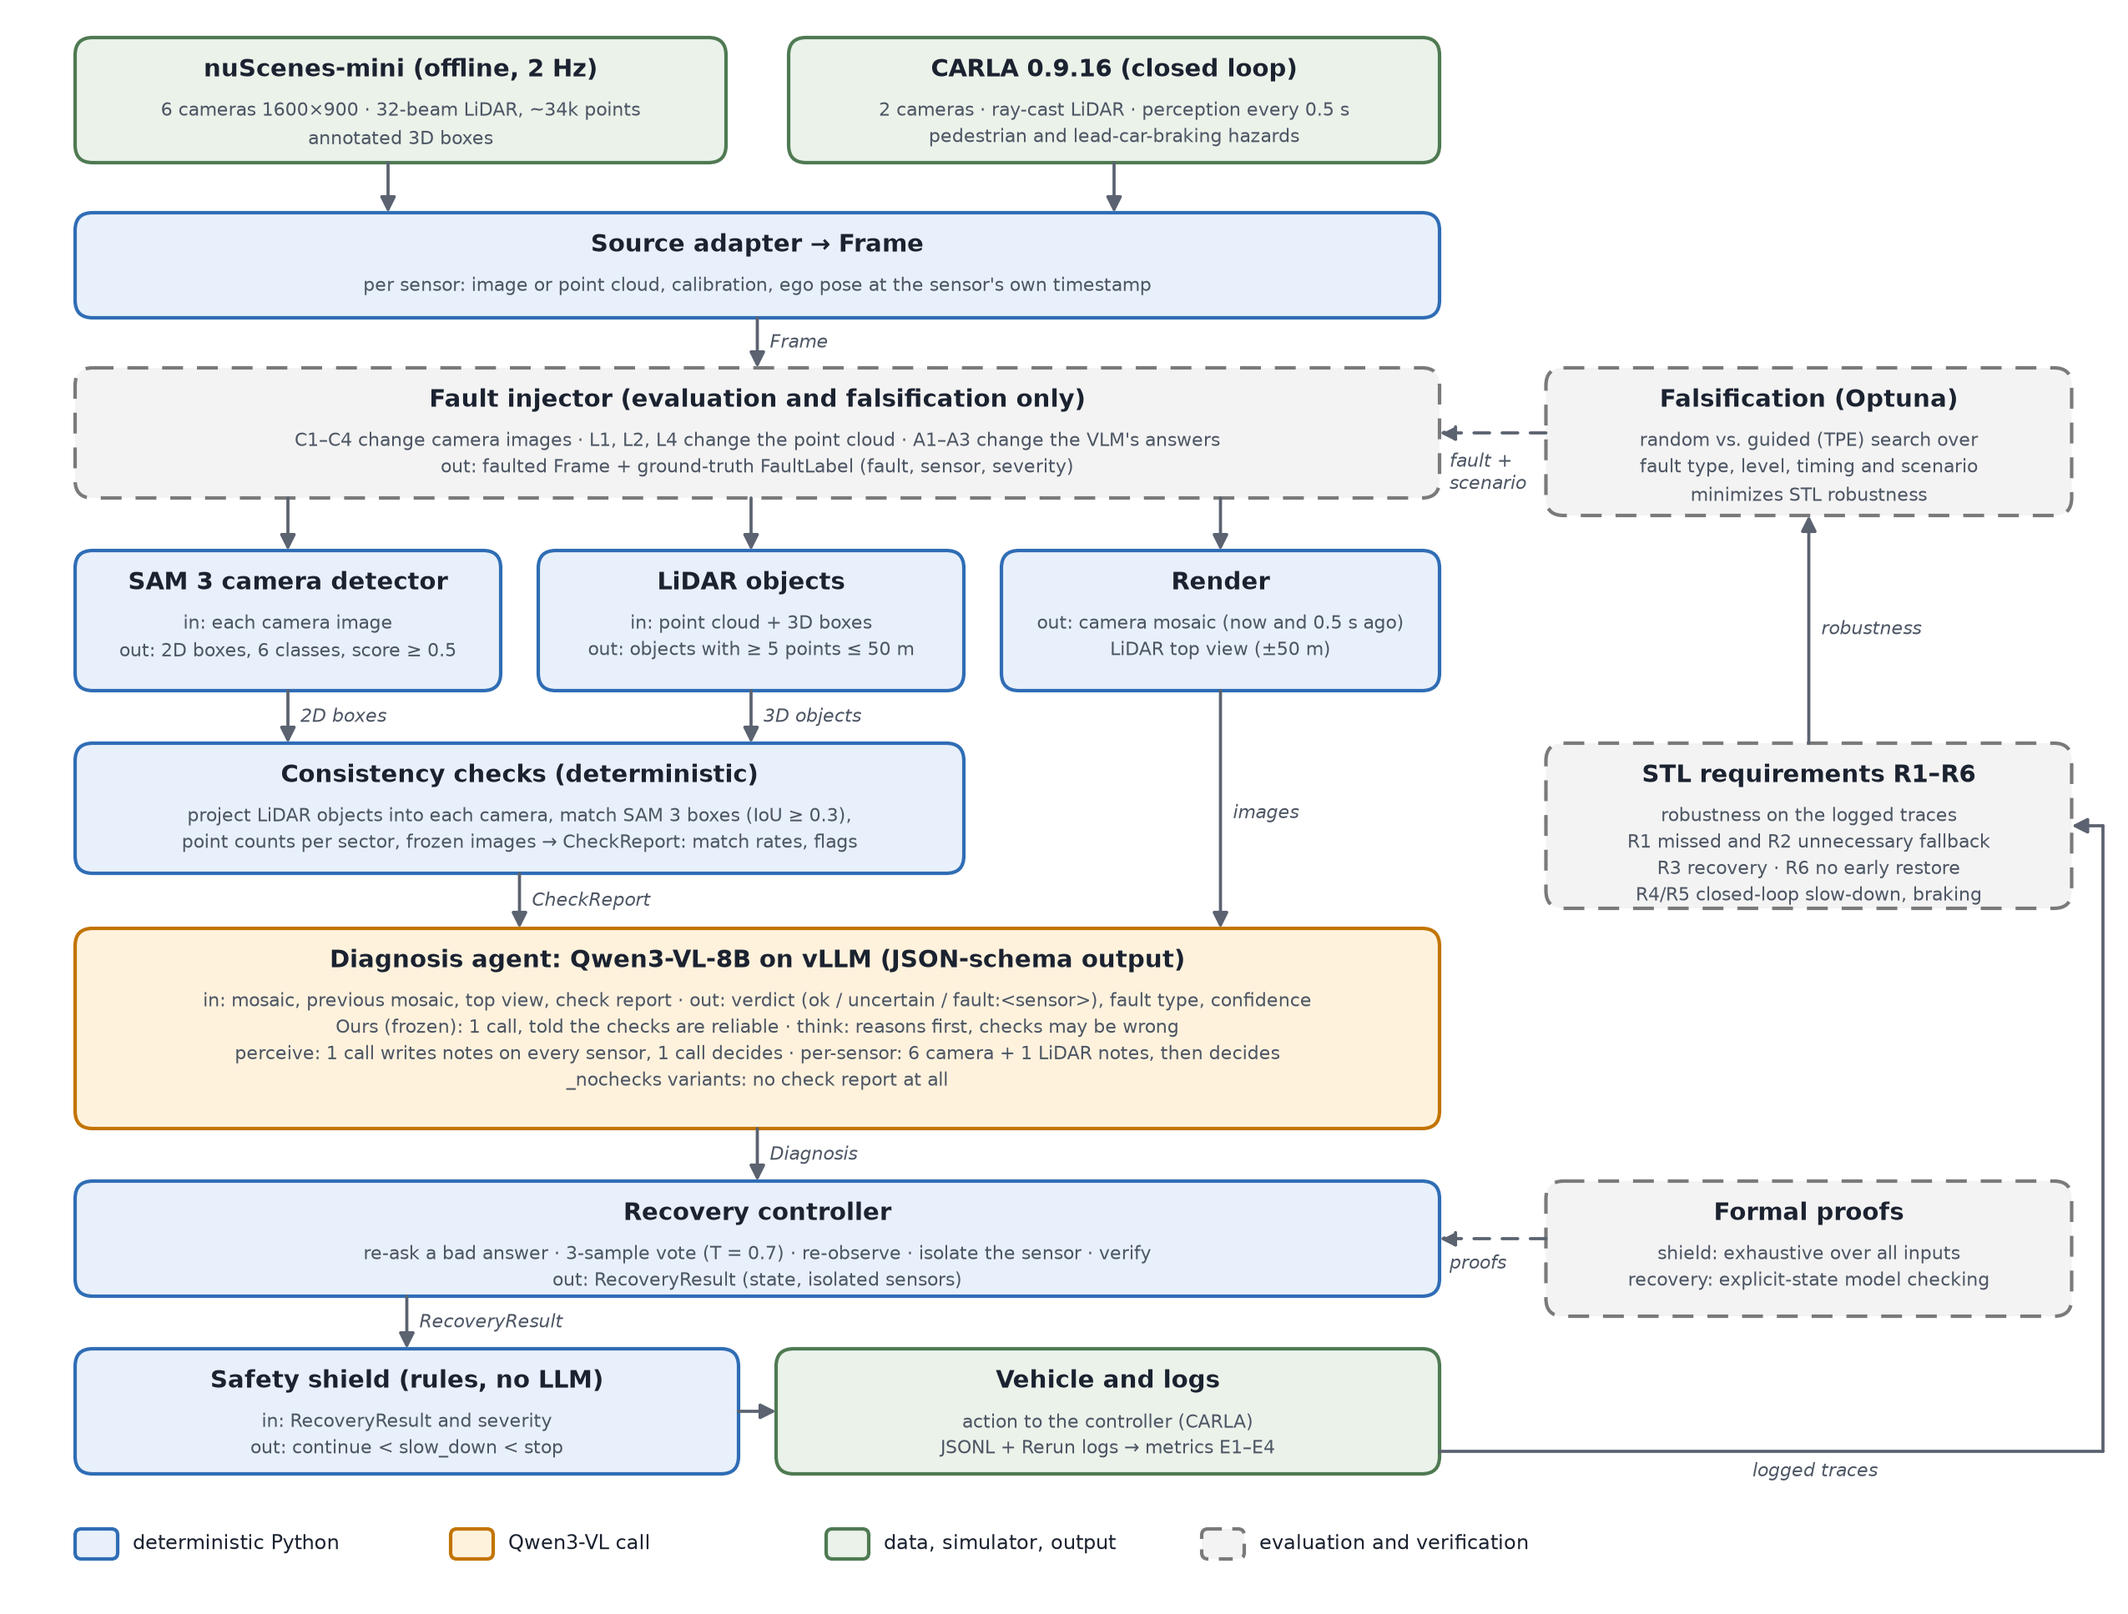
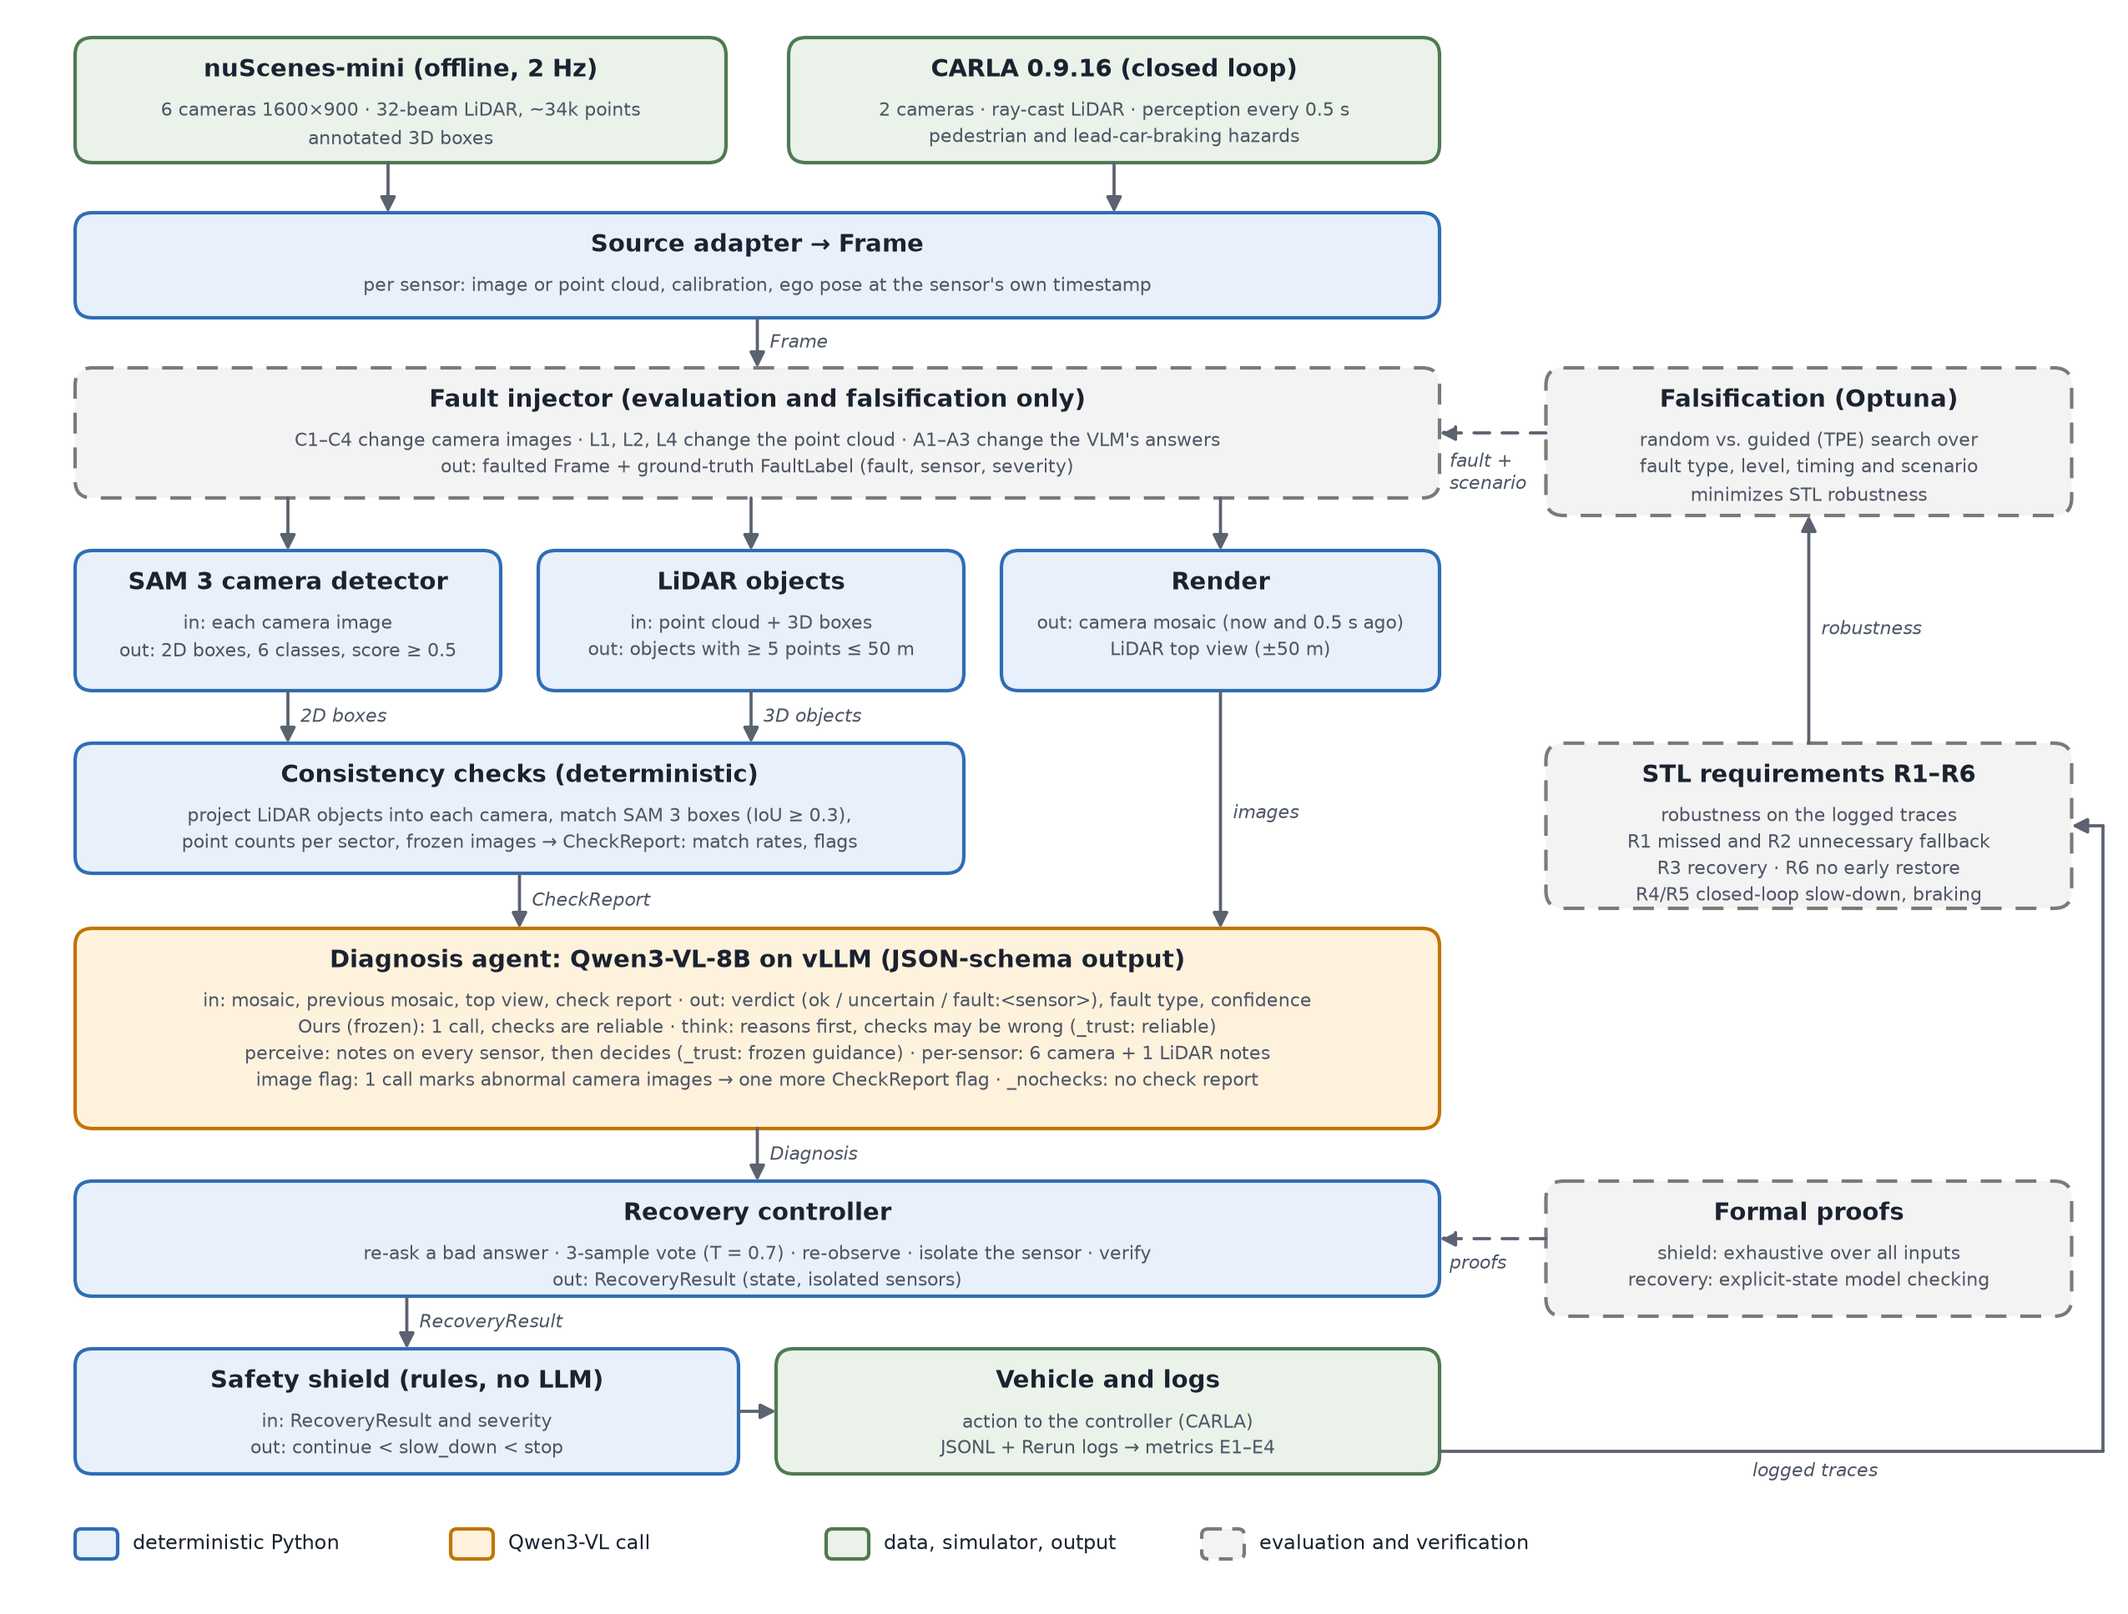
checkpoint(finish-vlm): T12 seeds 1-2 and the final round-2 figures
Three seeds confirm the screen: the variants that keep the frozen call match Ours-full in F1 and trade false alarms
for missed fallbacks. Figures in docs/media regenerated (variants, per-fault, seeds, cost, data flow).

Claude-Session: https://claude.ai/code/session_019UfXnDKkSotNQkE5UxziuS

Changed region(s): [[0.1239, 0.6202, 0.5886, 0.6822]]

diff --git a/scripts/make_dataflow_figure.py b/scripts/make_dataflow_figure.py
@@ -78,9 +78,9 @@ def draw(out: Path) -> None:
     box(ax, L, 742, R - L, 160, "vlm", "Diagnosis agent: Qwen3-VL-8B on vLLM (JSON-schema output)",
         "in: mosaic, previous mosaic, top view, check report · out: verdict (ok / uncertain / fault:<sensor>), "
         "fault type, confidence\n"
-        "Ours (frozen): 1 call, told the checks are reliable · think: reasons first, checks may be wrong\n"
-        "perceive: 1 call writes notes on every sensor, 1 call decides · per-sensor: 6 camera + 1 LiDAR notes, "
-        "then decides\n_nochecks variants: no check report at all")
+        "Ours (frozen): 1 call, checks are reliable · think: reasons first, checks may be wrong (_trust: reliable)\n"
+        "perceive: notes on every sensor, then decides (_trust: frozen guidance) · per-sensor: 6 camera + 1 LiDAR notes\n"
+        "image flag: 1 call marks abnormal camera images → one more CheckReport flag · _nochecks: no check report")
     box(ax, L, 944, R - L, 92, "code", "Recovery controller",
         "re-ask a bad answer · 3-sample vote (T = 0.7) · re-observe · isolate the sensor · verify\n"
         "out: RecoveryResult (state, isolated sensors)")

diff --git a/docs/superpowers/runs/2026-11-21-finish-and-vlm-variants.md b/docs/superpowers/runs/2026-11-21-finish-and-vlm-variants.md
@@ -7,7 +7,8 @@
 - Continues `docs/superpowers/runs/2026-11-20-course-requirements.md` (Phase B tasks B3–B7).
 
 ## Status
-Current: round 2. T10 done; T13 done (agent faults). T11, T14 done. Running: T12 seeds 1–2 (`vlm_trust_s12`, `vlm_imgflag_s12`). Next: T15.
+Current: round 2. T10–T14 done; vLLM stopped (GPUs 3, 4, 7 at 2 MiB). Next: T15 (figures pushed, report Doc,
+provenance Doc, Drive, merge and push).
 
 Phase B state found at the start (outputs in `/data/maxshen/recoverdrive/outputs/falsify/`):
 - B3 done: `nuscenes_gpu_v1`, C2/C3 × R1/R2/R3/R6 × random/TPE, 960 trials (checks_only).
@@ -22,13 +23,29 @@ Phase B state found at the start (outputs in `/data/maxshen/recoverdrive/outputs
 |---|---|---|---|
 | T0 | 77bfb9f | 170 passed, ruff clean | plan, run log, CARLA `--resume` / `--confirm` |
 | T3 | dfd2846 | 175 passed, ruff clean; replay check 4830/4830 on `test_final` | `VLMVariant` (5 variants), prompts in `vlm.py`, `tests/test_variants.py`; resume keeps unreached rows |
-| T2a | (this commit) | triage of `gpu_v1`: 209 violating trials, 0 bug candidates; confirmations 145/147 and 67/67 still violated with Ours-full | falsification log, Phase B sections |
-| T1a | (this commit) | 4 CARLA campaigns complete: 160 runs (summary.md 40 each), all exit 0 | resumed with `--resume`; confirmation running |
-| T2b | (this commit) | CARLA triage: 29 R4 + 1 R5 violation (1 collision), all undetected C2 rotations; 0 bug candidates | falsification log, CARLA section |
-| T1 | (this commit) | CARLA confirmation: 10 replays with Ours-full, exit 0; the collision scenario also collides with Ours-full | B5 complete |
-| T13 | (this commit) | `vlm_agent_s0`: 729 frames, 0 errors; 181 passed, ruff clean | recovery 0.661 Ours-full, 0.622 `think_trust`, 0.661 `imgflag`; unnecessary fallback 0.056 / 0.089 / 0.154 |
-| T11 | (this commit) | `vlm_screen_s0_round2`: 42 runs, 1,701 frames, 0 errors; bootstrap vs Ours-full | `perceive_trust` F1 0.617 (gap +0.109 [+0.070, +0.149]); `imgflag` 0.726 (−0.001 [−0.028, +0.025]) with false alarm 0.246 vs 0.089; `imgflag_checks` 0.723 at 1 call/frame |
-| T14 | (this commit) | `carla_v2_imgflag_{r4,r4_ped,r5}`: 12 replays, all finished (the cut-off duplicate of the main R4 process is kept as `pedestrian_confirm.partial-20261121T0805`) | front camera isolated 0/153 fault steps; rear camera isolated on 65/308 clean steps ("frozen"); R4 3/10 coincidental fixes, 1 new violation; collision unchanged |
+| T2a | 2fd9cfe | triage of `gpu_v1`: 209 violating trials, 0 bug candidates; confirmations 145/147 and 67/67 still violated with Ours-full | falsification log, Phase B sections |
+| T6a | c8361ce | tests and ruff at commit time | figure, diagram and video scripts; experiment table |
+| T6b | 741de3a | tests and ruff at commit time | assurance figure reads all falsification outputs |
+| T5a | d3095f1 | tests and ruff at commit time | `think_trust` ablation variant (D7) |
+| T1a/T2b | 2b4a032 | tests and ruff at commit time | CARLA campaigns complete and triaged |
+| T6c | ad13504 | tests and ruff at commit time | results figures merge extra tags; bootstrap intervals |
+| T1 | d507ced | CARLA confirmation: 10 replays with Ours-full, exit 0; the collision scenario also collides with Ours-full | B5 complete |
+| B7 | 339f4ce | tests and ruff at commit time | Phase B numbers in the verification text |
+| T8a | a512894 | tests and ruff at commit time | demo video on Drive |
+| T6d | cceadb6 | tests and ruff at commit time | final falsification figure and assurance case |
+| T8a | 77242e2 | tests and ruff at commit time | report Doc phase 1 |
+| T6e | df05870 | tests and ruff at commit time | results figures union several tags for the seed table |
+| T6f | 648712a | tests and ruff at commit time | variant figures (comparison and per-fault F1) |
+| T4-T7 | 899e1d8 | tests and ruff at commit time | variant results, replays, figures and docs |
+| T8 | f567c6f | tests and ruff at commit time | report Doc, provenance Doc and Drive uploads |
+| T9 | 0ce577c | `main` fast-forwarded to the branch (the repo's linear-history convention); in the main checkout `uv sync` builds torch 2.14.1+cu126 (CUDA available), 176 passed, ruff clean; replay check 4830/4830; pushed over HTTPS: origin/main eb34fe3..f567c6f | the worktree is kept (it holds `outputs/e3/regress_gvl2`) |
+| T10 | 9a55dcb | 180 passed, ruff clean; replay check 4830/4830 | `perceive_trust` (the 3-step flow with the frozen guidance), `imgflag` (VLM image-quality flag + frozen Ours), `imgflag_checks` (VLM flag + rules only); new flag name `vlm_image` |
+| T14a | bd13b34 | tests and ruff at commit time | CARLA replays can rank scenarios by R4 (`--by`) |
+| round-2 | 47b6f2b | tests and ruff at commit time | round-2 plan (T10–T15) after the stop-hook review |
+| T13 | e315700 | `vlm_agent_s0`: 729 frames, 0 errors; 181 passed, ruff clean | recovery 0.661 Ours-full, 0.622 `think_trust`, 0.661 `imgflag`; unnecessary fallback 0.056 / 0.089 / 0.154 |
+| T11 | 67f9493 | `vlm_screen_s0_round2`: 42 runs, 1,701 frames, 0 errors; bootstrap vs Ours-full | `perceive_trust` F1 0.617 (gap +0.109 [+0.070, +0.149]); `imgflag` 0.726 (−0.001 [−0.028, +0.025]) with false alarm 0.246 vs 0.089; `imgflag_checks` 0.723 at 1 call/frame |
+| T14 | e0a5990 | `carla_v2_imgflag_{r4,r4_ped,r5}`: 12 replays, all finished (the cut-off duplicate of the main R4 process is kept as `pedestrian_confirm.partial-20261121T0805`) | front camera isolated 0/153 fault steps; rear camera isolated on 65/308 clean steps ("frozen"); R4 3/10 coincidental fixes, 1 new violation; collision unchanged |
+| T12 | (this commit) | `vlm_trust_s12`, `vlm_imgflag_s12`: 84 runs and 3,402 frames each, 0 frame errors; figures regenerated | 3 seeds: F1 0.729 ± 0.003 Ours-full, 0.726 ± 0.005 `think_trust`, 0.727 ± 0.002 `imgflag`, 0.726 ± 0.003 `imgflag_checks`; dataflow diagram lists the round-2 variants |
 
 ## Drive
 - Report Doc `1TejQjwoDeW_gQMlVCWMl-G1R87ICXqNJk1hCnP4fHA8`, updated in place (title unchanged).
@@ -37,22 +54,20 @@ Phase B state found at the start (outputs in `/data/maxshen/recoverdrive/outputs
   (`16TnNjXg6KOq0jPG1VVI-2WtfMhUDf2w7`, 7,020,097 bytes) and 7 figures.
 - `experiment_result/recoverdrive_results_2026-11-21_{summaries,screen_frames_part1,screen_frames_part2,trust_frames}.zip`
   (split because the connector refuses requests over 10 MB).
-| T9 | f567c6f (merge), this commit | `main` fast-forwarded to the branch (the repo's linear-history convention); in the main checkout `uv sync` builds torch 2.14.1+cu126 (CUDA available), 176 passed, ruff clean; replay check 4830/4830; pushed over HTTPS: origin/main eb34fe3..f567c6f | the worktree is kept (it holds `outputs/e3/regress_gvl2`) |
-| T10 | (this commit) | 180 passed, ruff clean; replay check 4830/4830 | `perceive_trust` (the user's 3-step flow with the frozen guidance), `imgflag` (VLM image-quality flag + frozen Ours), `imgflag_checks` (VLM flag + rules only); new flag name `vlm_image` |
 
 ## Deferred questions
 - D3 (T3): variant prompts are written once, not tuned (one smoke check for format errors only).
 - D4 (T5): the 2 variants with the best pooled `_full` F1 on dev seed 0 (fallback errors within 0.02 of Ours-full)
   get seeds 1–2.
 - D6 (T4): the screening covers the 7 sensor faults only (one vLLM server; no second GPU was free at 03:30). The
-  agent faults A1–A3 test the re-ask and vote, which all variants share with Ours-full; they run for the top
-  variants in T5. If you prefer otherwise: add A1–A3 to the screen (about +40% VLM time).
+  agent faults A1–A3 test the re-ask and vote, which all variants share with Ours-full. Closed in round 2: A1–A3 ran
+  for Ours-full, `think_trust` and `imgflag` (`vlm_agent_s0`); see D10 for `imgflag_checks`.
 - D7 (T5): plan change. The partial screen showed every variant below Ours-full in recall. `think` changes two
-  things at once (reasoning first, and "the checks can be wrong"), so T5 adds the clean ablation `think_trust`
-  (frozen prompt + reasoning field) on the same frames, and replays the falsification counterexamples with the
-  most promising variant. Seeds 1–2 run only if a variant beats Ours-full on seed 0; otherwise block-bootstrap
-  intervals over fault episodes on seed 0 measure the gap. If you prefer otherwise: 3 seeds for the best 2
-  variants anyway (about 4–5 h of VLM time on one shared GPU).
+  things at once (reasoning first, and "the checks can be wrong"), so T5 added the clean ablation `think_trust`
+  (frozen prompt + reasoning field) on the same frames, and replayed the falsification counterexamples with the
+  most promising variants; block-bootstrap intervals over fault episodes measured the gaps. Closed in round 2: seeds
+  1–2 ran for the references, `think_trust` and both image-flag variants (5,103 frames per method); the seed-0
+  conclusions hold (same F1 within ±0.02, the variants trade false alarms for missed fallbacks).
 - D8 (T8): Doc images come from raw.githubusercontent.com at the pushed commit, because the Docs API inserts images
   only from a public URL and the server has no Drive client for large files. The new figures are therefore in
   `docs/media/` of the public repo (data figures were local-only before). If you prefer them private: remove them

diff --git a/docs/vlm-variants.md b/docs/vlm-variants.md
@@ -149,7 +149,35 @@ of a false flag with a fault elsewhere (for example 14 alarms on L2 frames, a Li
   frames abnormal. Pooled F1 stays at 0.726: the C2/C3/L2 gains are paid for by false alarms everywhere else. The
   deciding VLM call adds nothing over the rules here (image flag → checks-only: F1 0.723 with one call per frame).
 - **More calls are not better.** The per-sensor variant uses 9.3 calls per frame (4.5 times Ours-full) and has the
-  second-lowest F1 (0.508; 0.07 on C1).
+  second-lowest F1 (0.508; 0.07 on C1) (`docs/media/vlm_cost.png`).
+- **The results hold over 3 seeds and under agent faults, but not in closed loop.** Over seeds 0–2 the variants that
+  keep the frozen call have the F1 of Ours-full within ±0.02 (below), and they keep its re-ask recovery under A1–A3. In
+  CARLA, the image flag never caught the rotated front camera that caused the falsification's violations, and it
+  raised "frozen" false alarms on the rear camera (last section).
+
+Not done: the test split. A new variant on the test split needs the user's approval (spec §5.4; deferred question D5).
+No variant beat Ours-full on the dev split, so no test run is planned unless it is asked for.
+
+### Seeds 0–2 (round 2)
+
+The references, `think_trust` and the two image-flag variants on seeds 1–2 as well (`outputs/eval/vlm_trust_s12`,
+`vlm_imgflag_s12`: 84 runs each, 3,402 frames each, 0 frame errors), pooled with seed 0: 5,103 frames per method, mean ±
+standard deviation over the 3 seeds (`docs/media/vlm_variants_seeds.png`).
+
+| Method | F1 | Right sensor | False alarm | Unnecessary fallback | Missed fallback | VLM calls per frame |
+|---|---|---|---|---|---|---|
+| Checks-only (no VLM) | 0.730 ± 0.003 | 0.946 ± 0.008 | 0.087 ± 0.005 | 0.044 ± 0.003 | 0.079 ± 0.004 | 0 |
+| Ours-full (frozen) | 0.729 ± 0.003 | 0.947 ± 0.010 | 0.089 ± 0.006 | 0.050 ± 0.002 | 0.079 ± 0.004 | 2.07 |
+| Think, trusting the checks | 0.726 ± 0.005 | 0.885 ± 0.006 | 0.149 ± 0.001 | 0.084 ± 0.001 | 0.071 ± 0.007 | 2.29 |
+| VLM image flag → Ours | 0.727 ± 0.002 | 0.842 ± 0.006 | 0.251 ± 0.004 | 0.149 ± 0.002 | 0.056 ± 0.001 | 3.48 |
+| VLM image flag → checks-only | 0.726 ± 0.003 | 0.844 ± 0.001 | 0.267 ± 0.003 | 0.137 ± 0.001 | 0.054 ± 0.002 | 1.00 |
+
+Block-bootstrap intervals over the fault episodes of all 3 seeds (Ours-full minus the method): F1 +0.004 [−0.008,
++0.015] for `think_trust`, +0.003 [−0.012, +0.016] for image flag → Ours, +0.004 [−0.011, +0.018] for image flag →
+checks-only, so no F1 difference; missed fallback +0.008 [+0.003, +0.013], +0.024 [+0.018, +0.030] and +0.025 [+0.020,
++0.032] (the variants miss fewer); false alarm −0.059 [−0.072, −0.048], −0.162 [−0.182, −0.142] and −0.178 [−0.199,
+−0.157] (the variants raise more). The seed-0 picture holds: these variants trade false alarms for missed fallbacks at
+the same F1.
 
 ### Agent faults (round 2)
 
